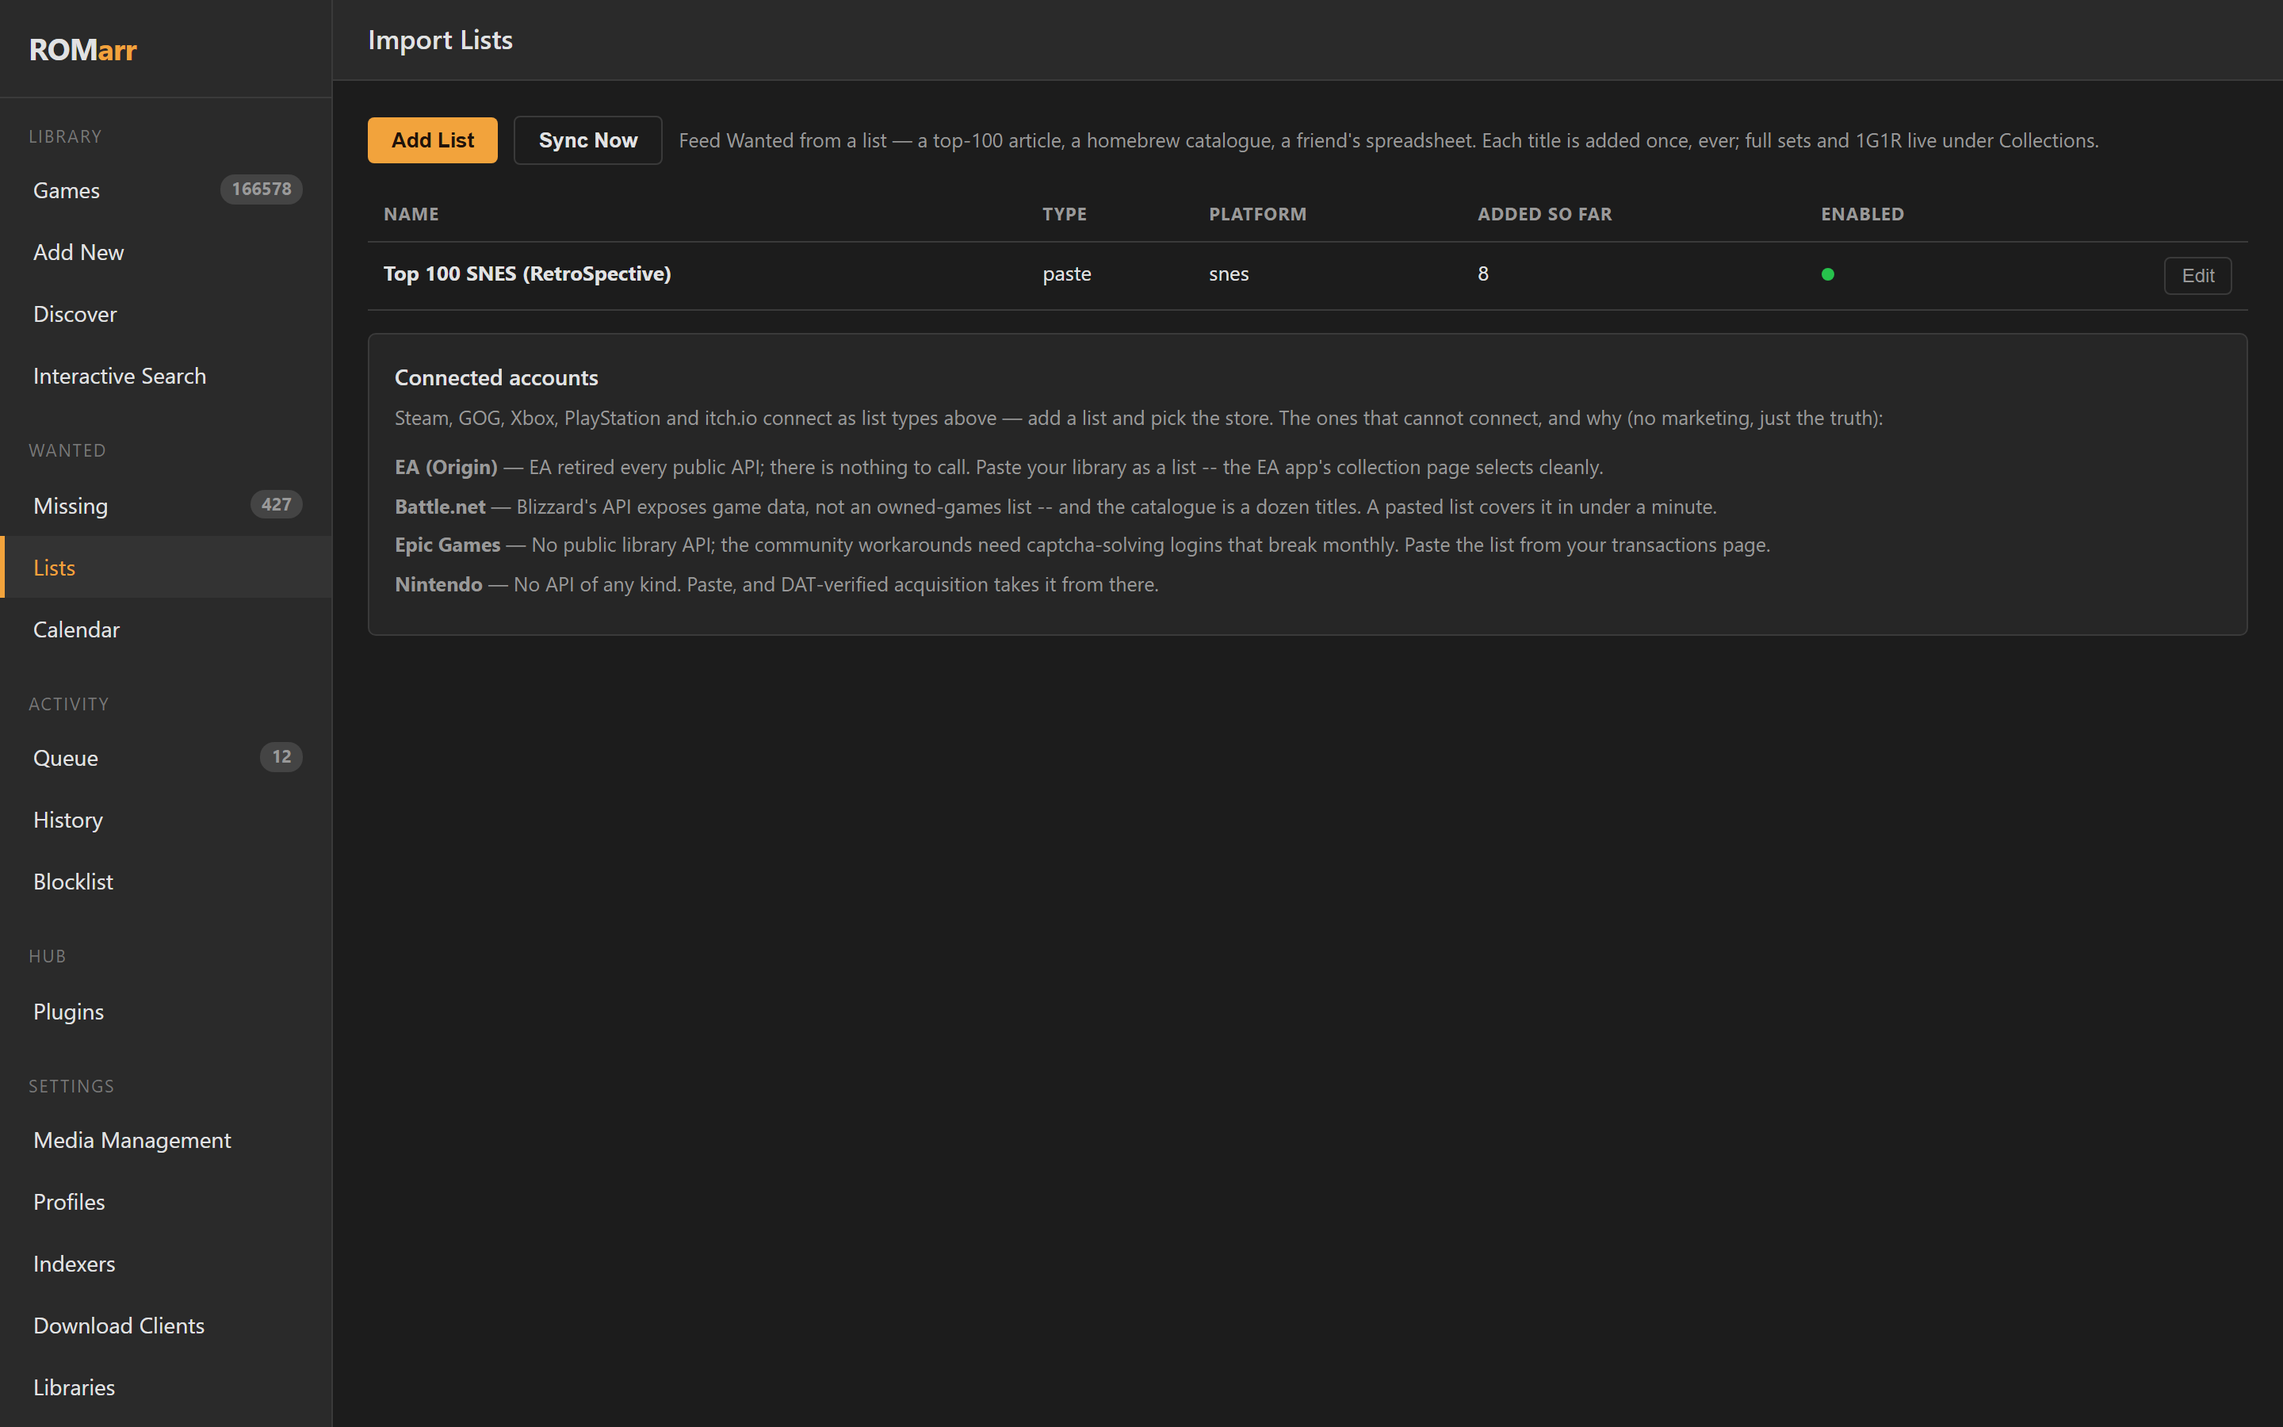
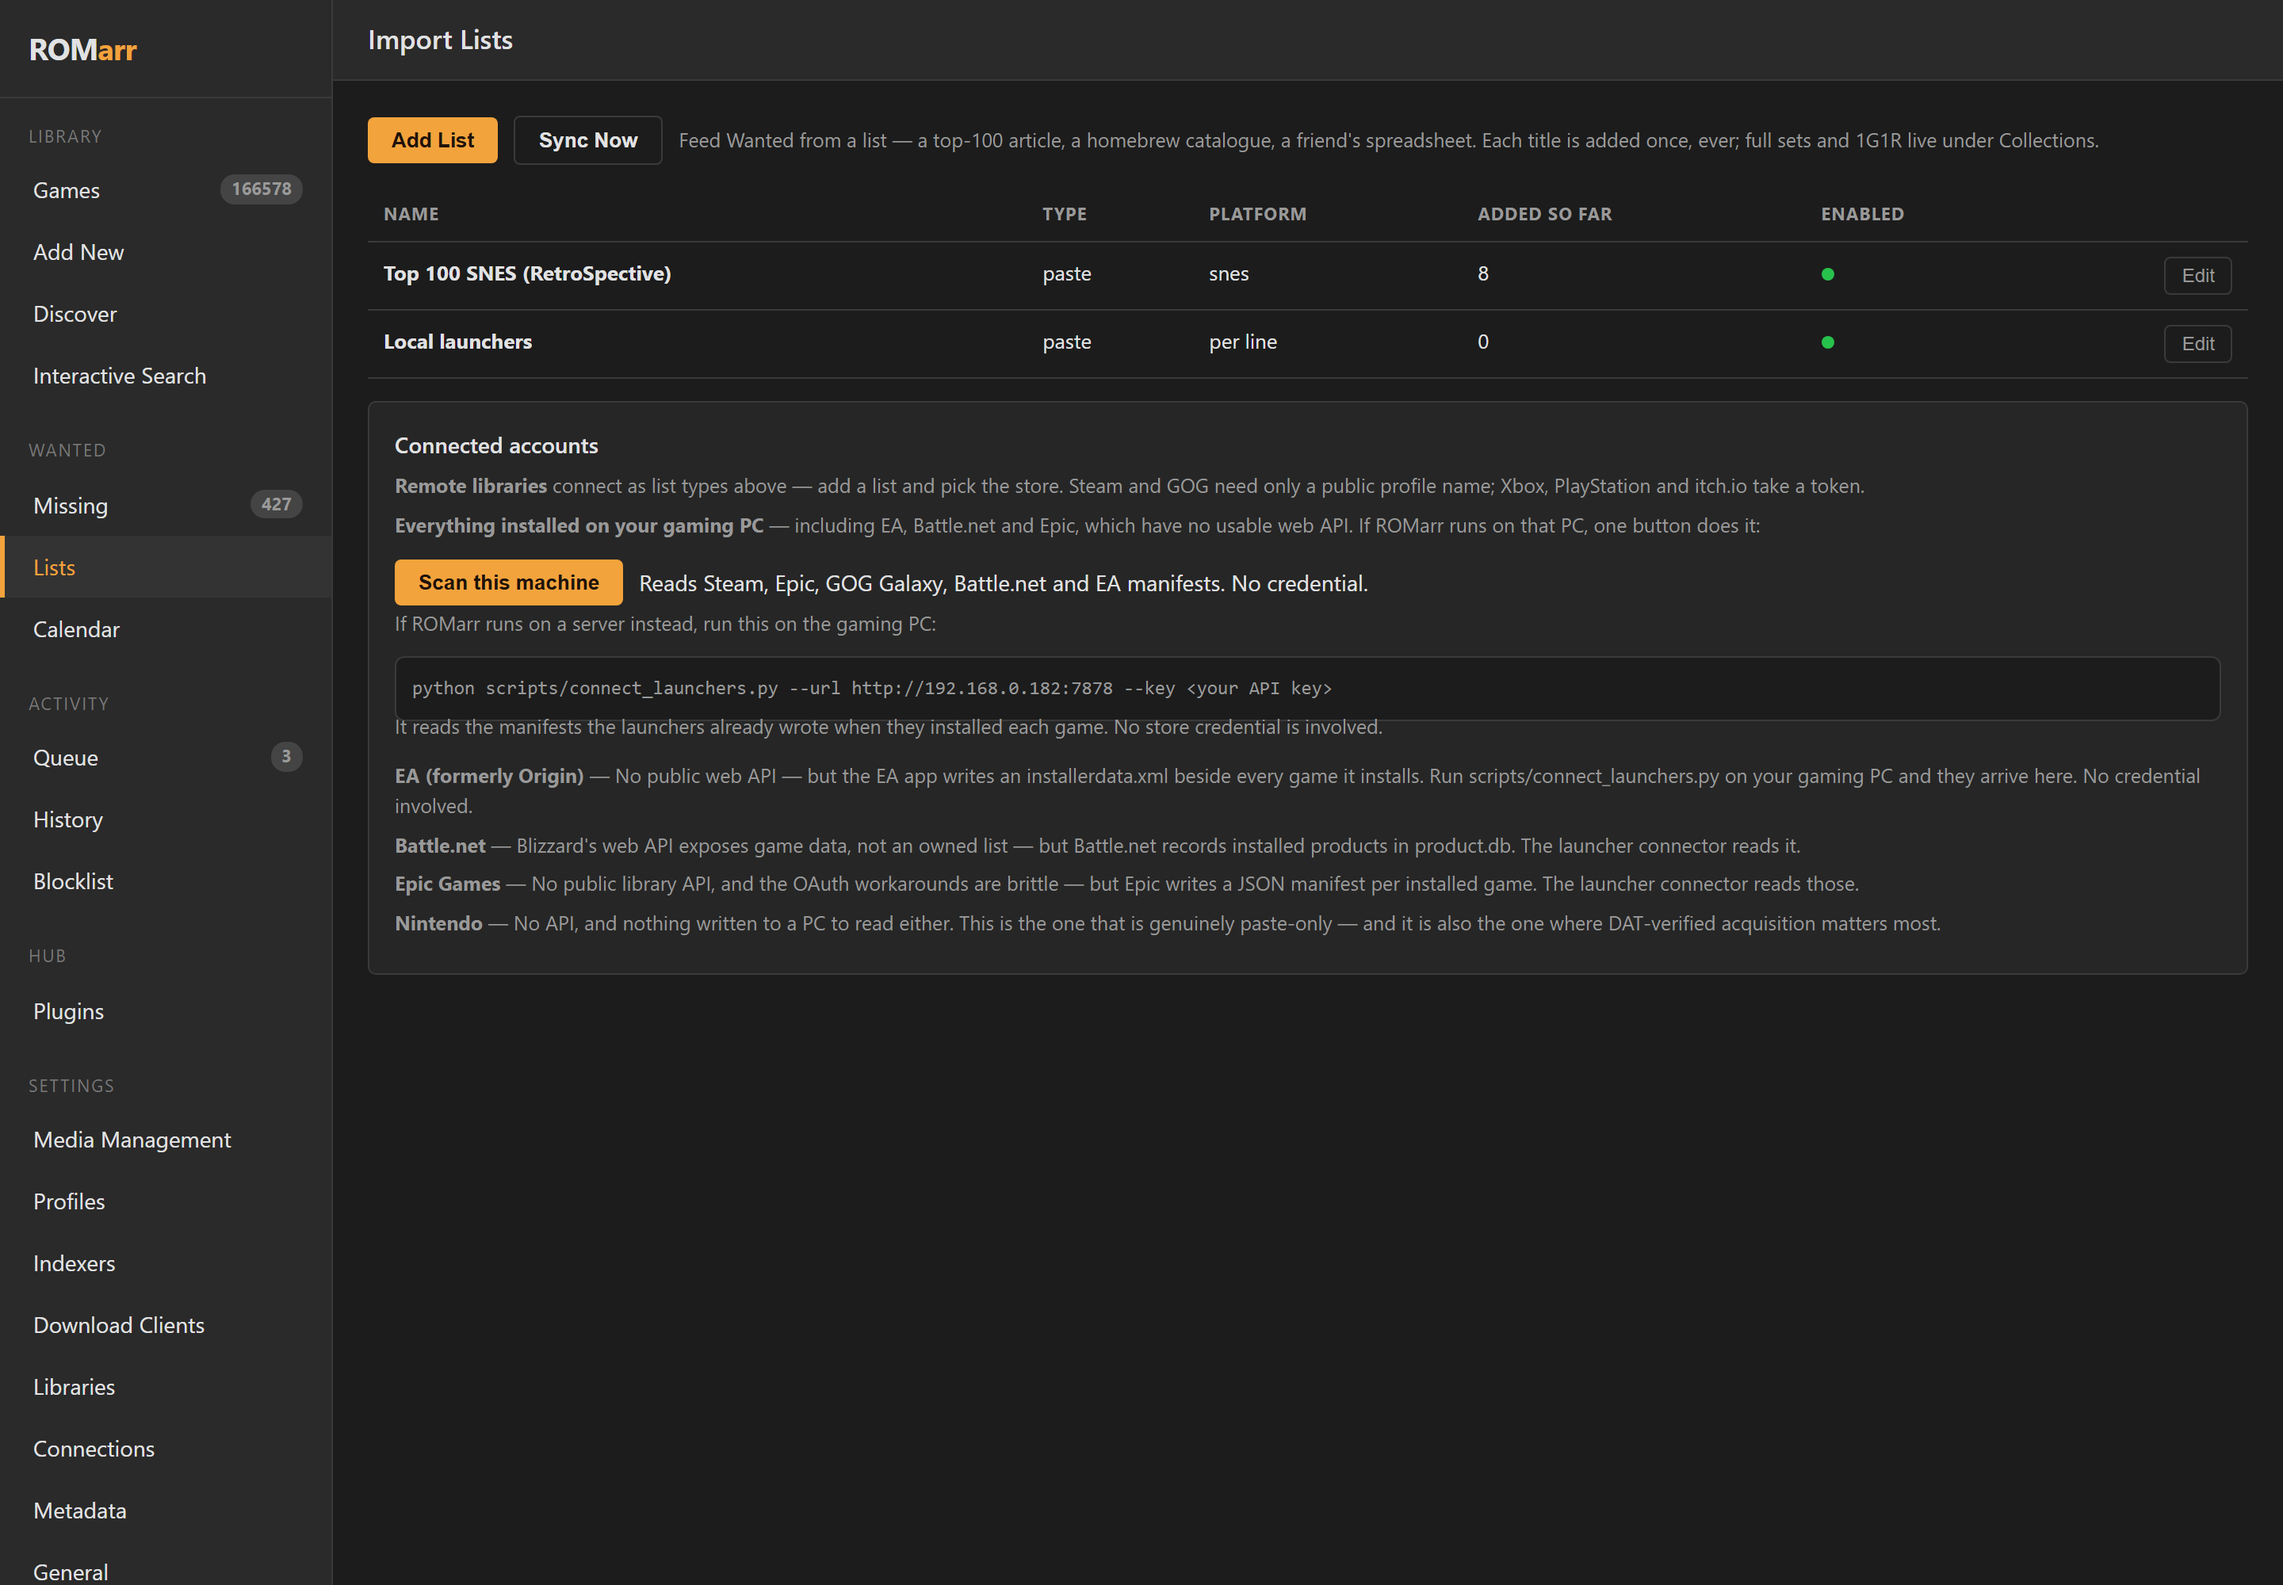
Document the launcher connector, and screenshot it live
The README's Lists section now shows both routes -- remote libraries as
list types, local launchers as one button -- and states plainly that the
old "EA/Battle.net/Epic have no API" claim was wrong, with the mechanism
that replaces it. Nintendo stays the one honest exception.

PROOF.md gains the row, including the part worth more than the positives:
the scanner correctly found NOTHING for an empty EA folder and a Steam
library on an unplugged drive.

Also fixes a real Windows bug the live run surfaced: a unicode arrow in
connect_launchers.py's success message raised UnicodeEncodeError on the
default cp1252 console AFTER the list had been sent, making a command that
worked look like it had failed.

diff --git a/scripts/connect_launchers.py b/scripts/connect_launchers.py
@@ -88,7 +88,10 @@ def main() -> int:
 
     print(f"\nSent {len(games)} title(s) to ROMarr as list "
           f"{saved.get('id', '?')!r}.")
-    print("Wanted → Lists shows it; Sync Now runs it immediately.")
+    # ASCII only: the default Windows console is cp1252 and a stray arrow
+    # here raised UnicodeEncodeError *after* the list had already been sent,
+    # which reads as a failed run of a command that actually worked.
+    print("Wanted -> Lists shows it; Sync Now runs it immediately.")
     return 0
 
 

diff --git a/README.md b/README.md
@@ -146,14 +146,29 @@ Intervals are editable live; zero disables a job.
 
 Paste a numbered "top 100" article exactly as you copied it — rank numbers,
 `# comments` and `Title<TAB>platform` lines all parse. Point at a URL that
-re-syncs on the clock. Or connect an account: **Steam** (library or
-wishlist), **GOG** (public profile), **Xbox** (via OpenXBL), **PlayStation**
-(via NPSSO), **itch.io** (API key). Every title feeds Wanted **once, ever**
-— a ledger per list means a fulfilled game is never re-downloaded by its own
-list. And the stores that *can't* connect are named on the page with the
-reason (EA and Nintendo have no API; Epic's workarounds break monthly;
-Battle.net's API has no owned-games list) — because pretending a connector
-exists only defers the disappointment to sync time.
+re-syncs on the clock. Every title feeds Wanted **once, ever** — a ledger
+per list means a fulfilled game is never re-downloaded by its own list.
+
+**Connect the stores you already own games on**, two ways:
+
+| Route | Covers | What it needs |
+|---|---|---|
+| **Remote libraries** — list types | Steam, GOG | *nothing but a public profile name* |
+| | Xbox, PlayStation, itch.io | a token you paste once |
+| **Local launchers** — one button | Steam, Epic, GOG Galaxy, **Battle.net**, **EA** | *no credential at all* |
+
+That second row is the interesting one. This README used to claim EA,
+Battle.net and Epic "have no API" and could not be connected — which was
+wrong, and Playnite and LaunchBox were the standing counter-example. They
+read what the launcher already wrote to disk: Steam's `appmanifest_*.acf`,
+Epic's JSON manifests, GOG Galaxy's SQLite database, Battle.net's
+`product.db`, and the `installerdata.xml` EA drops beside every install.
+ROMarr does the same — **Scan this machine** on the Lists page when ROMarr
+runs on your gaming PC, or `scripts/connect_launchers.py` run there when it
+doesn't. No OAuth, no scraped cookies, no store credential anywhere.
+
+Nintendo is the one honest exception: no API, and nothing written to a PC
+to read. It says so on the page.
 
 ### Collections: whole sets and 1G1R
 

diff --git a/docs/PROOF.md b/docs/PROOF.md
@@ -29,6 +29,7 @@ report is worth the most.
 | Zip-slip cannot escape the library | Traversal entries dropped before any write, tested with hostile archives | [`tests/test_library.py`](../tests/test_library.py) `test_archive_entries_escaping_the_root_are_dropped`, `test_traversal_entry_never_reaches_the_filesystem` |
 | Multi-library platform routing | 21 tests over routing rules, defaults, per-platform overrides | [`tests/test_multi_library.py`](../tests/test_multi_library.py) |
 | Questarr feature + roadmap parity | Item-by-item audit in the design doc, each row implemented and tested above | [design doc](superpowers/specs/2026-08-10-questarr-absorption-design.md); their P0–P6 mapped in the commit messages of `76eaf1e`, `b92ea04`, `a56a72f` |
+| Local launcher connect (Steam/Epic/GOG/Battle.net/EA) | **Proven on real hardware**: the scanner found a live Epic library and a Blizzard install on the maintainer's PC, then pushed them to the production server over the network | 17 tests in [`tests/test_launchers.py`](../tests/test_launchers.py); `scripts/connect_launchers.py` run 2026-08-10 against 192.168.0.182 — "Local launchers" appears in the [Lists screenshot](img/lists.png). Correctly found **nothing** for an empty EA folder and a Steam library on an unplugged drive, which matters more than the positives: a scanner that invents games is worse than none |
 | The screenshots are real | Taken by script against the production instance, same session as this file's date | [`docs/screenshots.py`](screenshots.py) — point it at your install and diff |
 
 ## What is NOT proven, in the same breath
